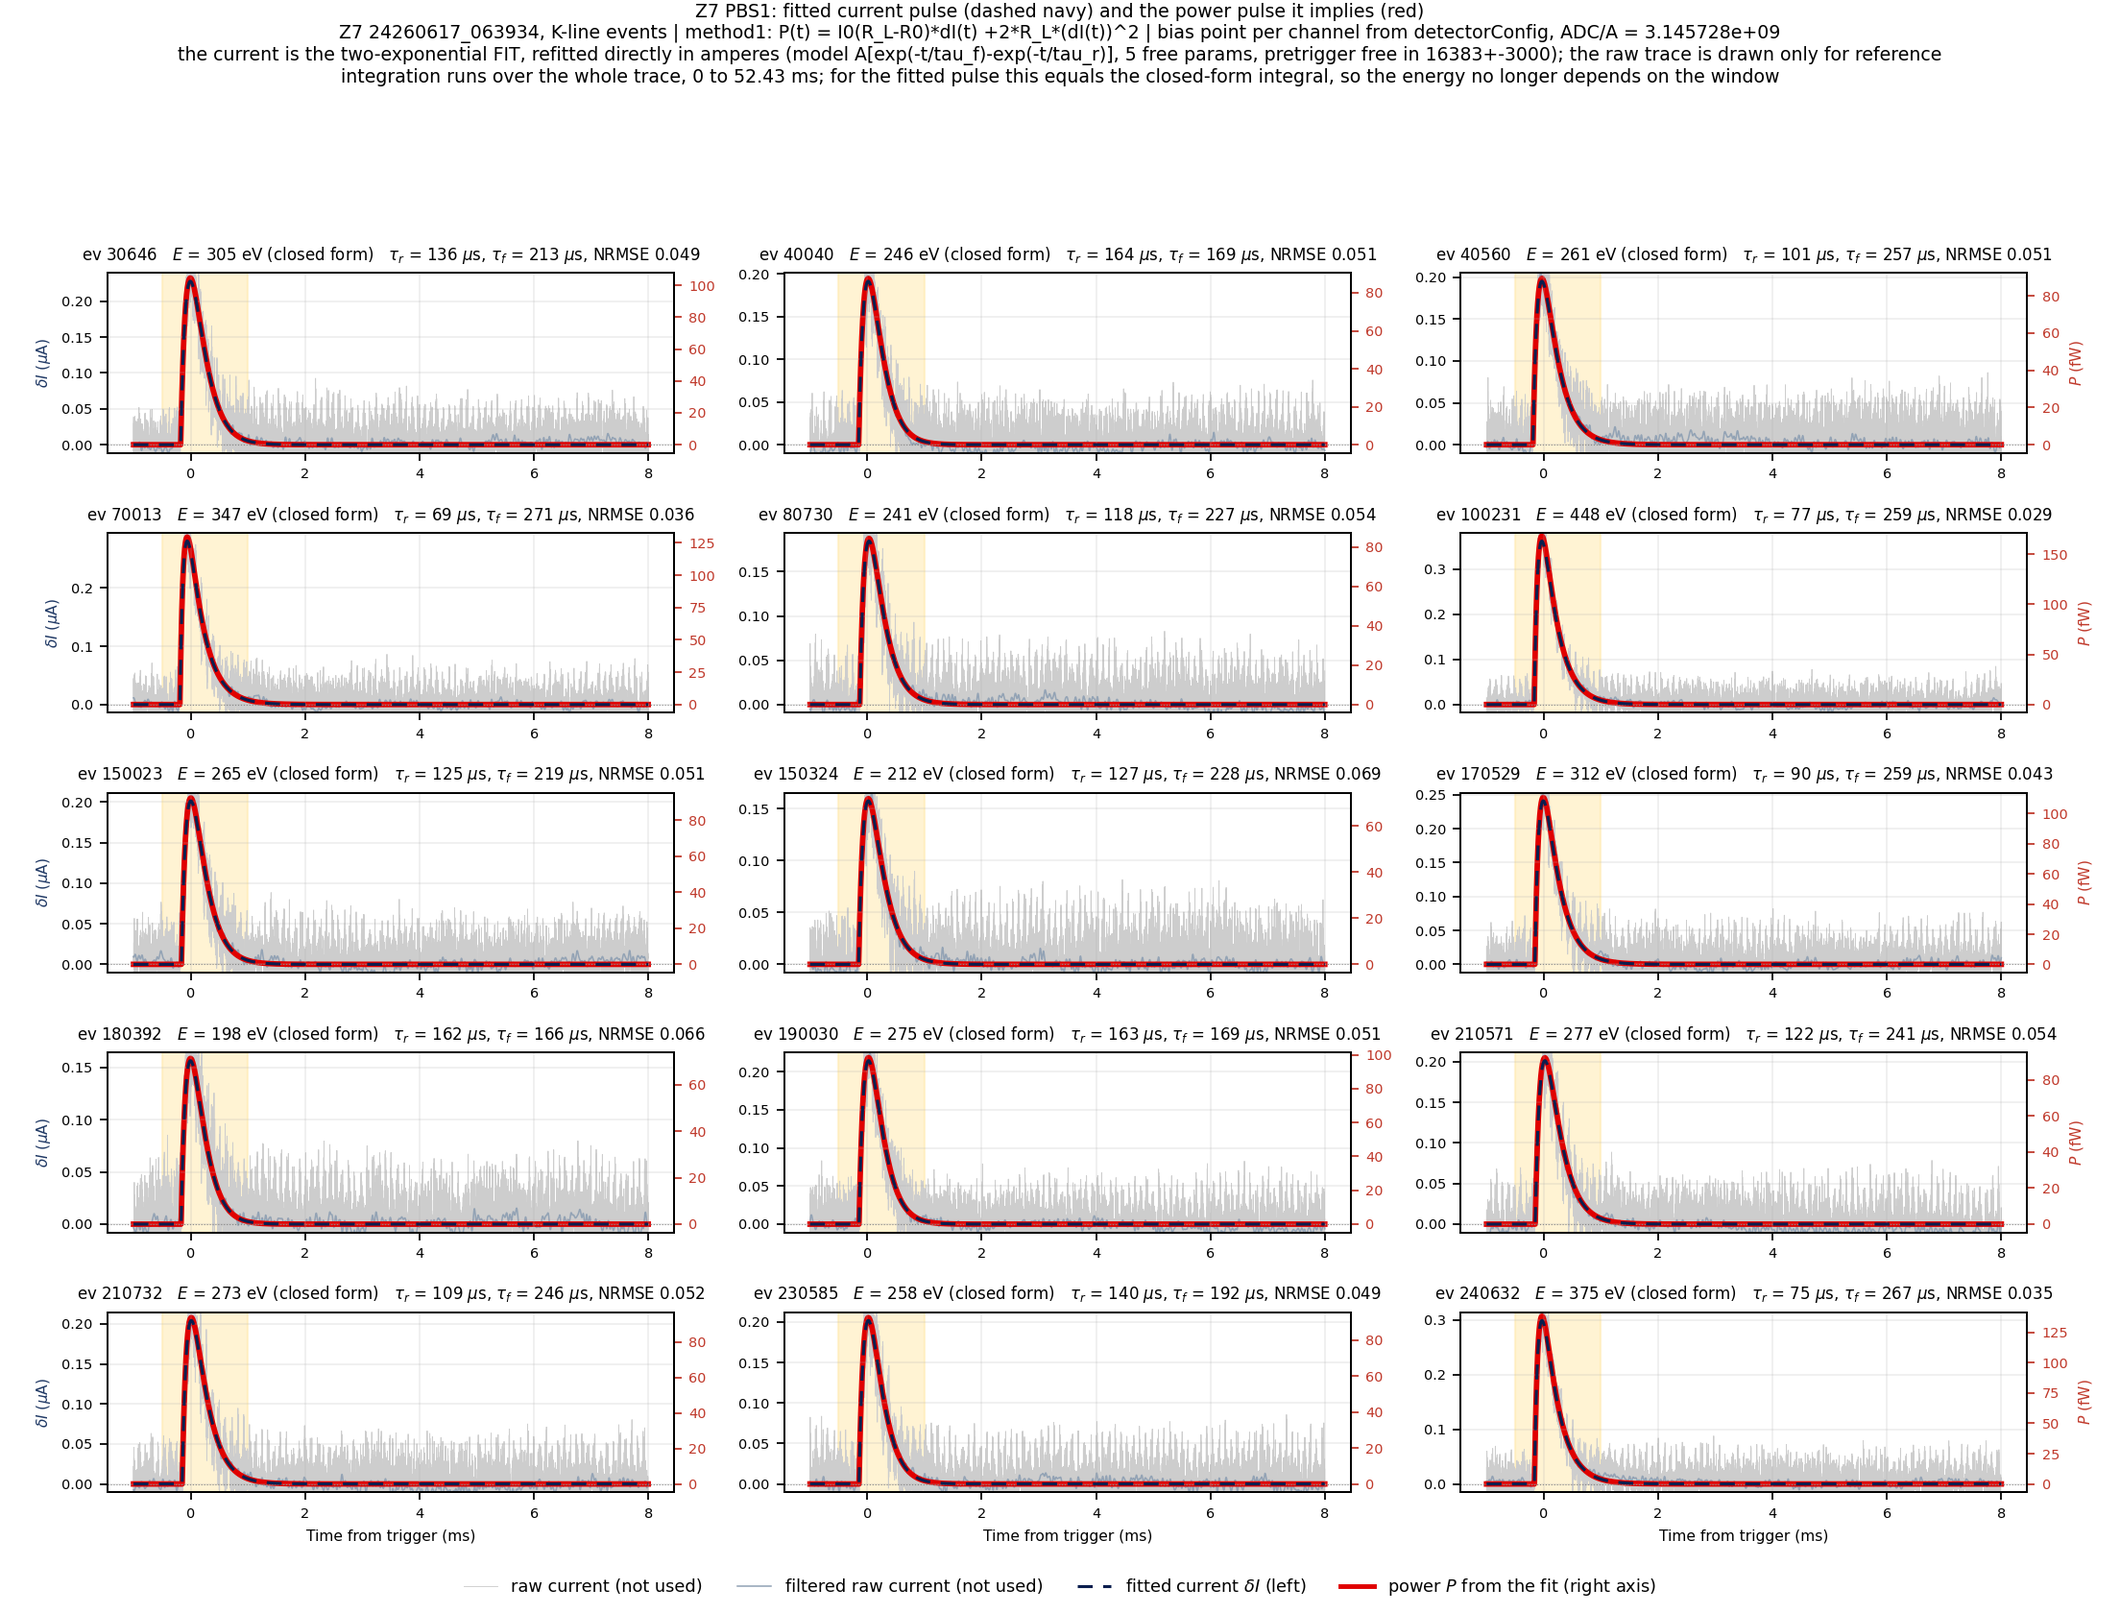
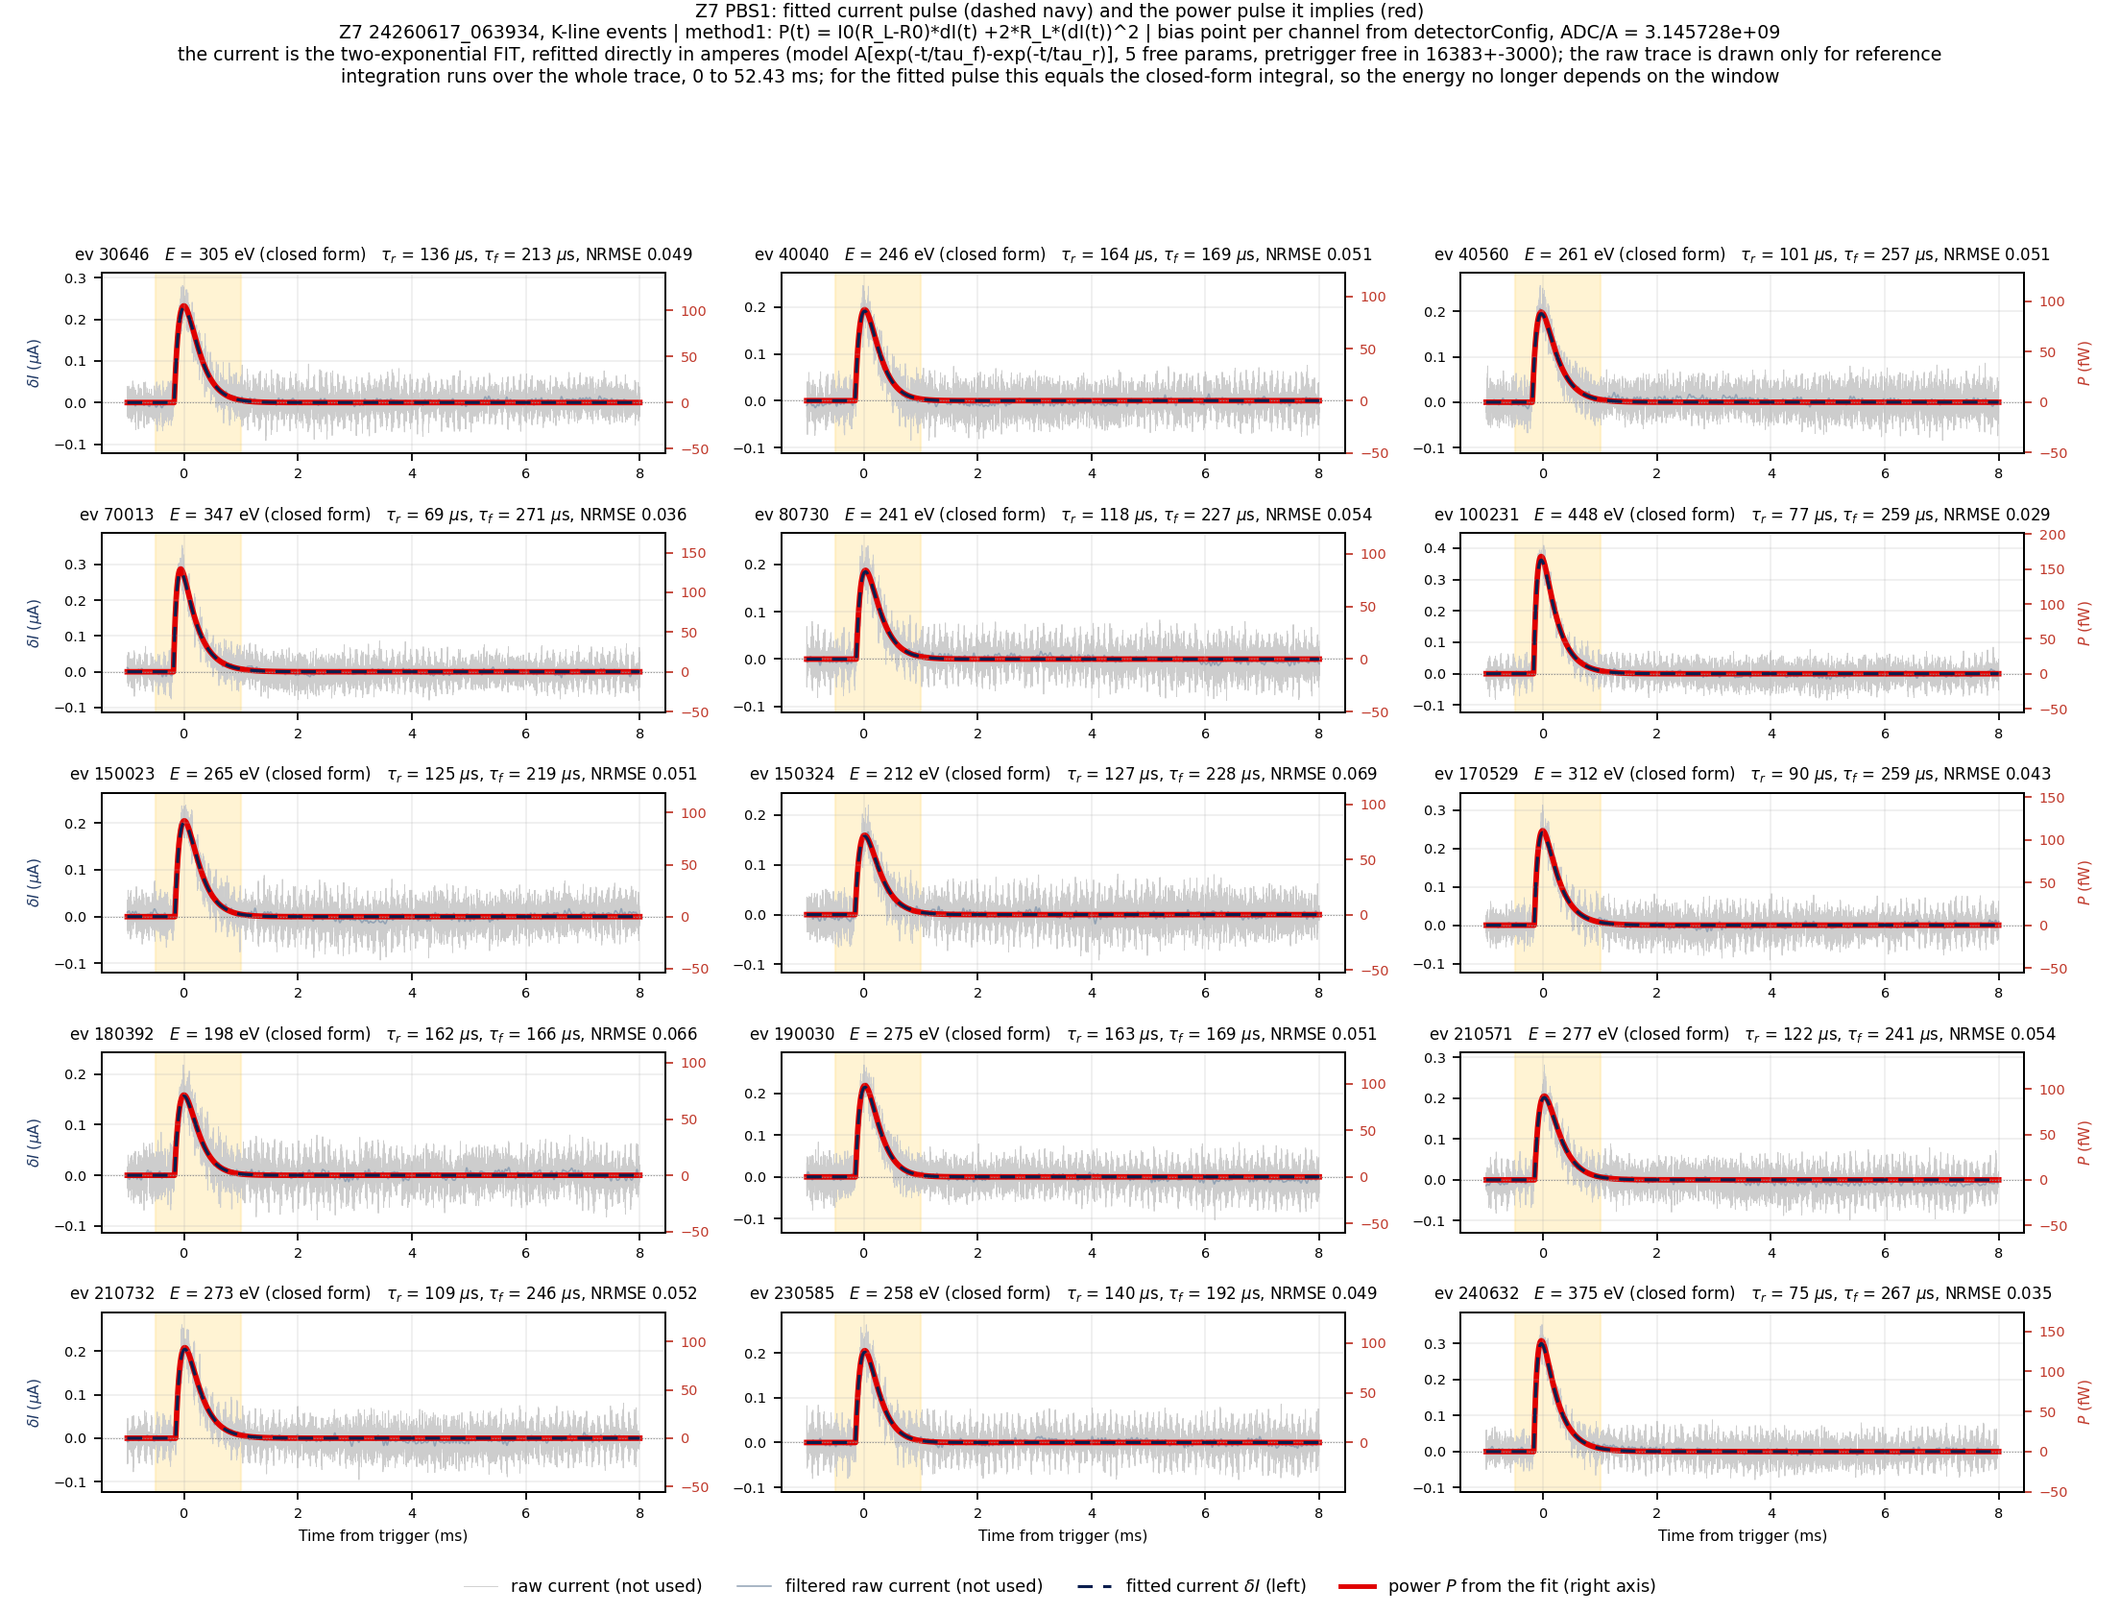
snolab: one pulse read three ways, and stop clipping the raw trace
New scripts/plot_peak_raw_vs_lowpass.py: a single event and channel zoomed on the
peak, with the raw samples, both low-pass traces and the fit on one set of axes
carrying ADC on the left, current in microamperes on the right and absorbed power
on a second right axis. The power axis uses the exact transform inverted through
the quadratic formula rather than a rescaled current axis, so its ticks are
genuinely uneven and the 2% nonlinearity is visible.

It shows why the pulse height has to come from the fit. For Z7 PBS1 event 30646
the four candidates are raw max 885.3 ADC, 100 kHz 785.9, 20 kHz 736.8 and the
fit 717.0, i.e. the raw maximum is 168 ADC (23%, 1.88 sigma) high. That is what
taking a maximum over the 98 samples on the flat top is expected to do: the
expectation is about 3 sigma, so this event is if anything a mild case.

Also fixes the current/power overlays, where the y range was autoscaled on the
fitted pulse alone. The raw trace lives on the twin axis whose limits are tied to
it, so raw noise below zero and above the peak was being clipped off the figure.
The range now comes from the raw trace, which is the widest curve.

diff --git a/snolab/differentialequations/scripts/plot_peak_raw_vs_lowpass.py b/snolab/differentialequations/scripts/plot_peak_raw_vs_lowpass.py
@@ -1,0 +1,239 @@
+#!/usr/bin/env python3
+"""One event, one channel, zoomed on the peak: raw samples, the low-pass traces
+and the fitted pulse, read simultaneously in ADC, current and power.
+
+The point of the figure is why the pulse height must come from the fit and not
+from the largest raw sample. Around the rounded top of the pulse many samples sit
+at nearly the same true height; taking the maximum picks whichever of them caught
+the largest upward noise excursion, so it is biased high. The fit uses every
+sample of the rise, the top and the decay, so the noise averages out.
+
+Everything is drawn against the baseline of the official Eabs definition (mean of
+bins 93..15758). Three axes carry the same curves: ADC on the left, current in
+microamperes on the right, and absorbed power in femtowatts on a second right
+axis. The power axis uses the exact transform
+
+    P = I0(R_L-R0)*dI + c2*R_L*dI^2        (method1, c2 = 2)
+
+inverted through the quadratic formula, so it is not a rescaled current axis: its
+ticks are genuinely non-uniform, which is the 2% nonlinearity made visible.
+
+Output: results/plots/current_power_overlay/zip{det}_{series}_peak_raw_vs_lp_{chan}_ev{N}.png
+
+Usage (inside the CDMS singularity image):
+    python3 scripts/plot_peak_raw_vs_lowpass.py --det 7 --chan PBS1 --event 30646
+"""
+import argparse
+import glob
+import os
+import pickle
+
+import numpy as np
+import uproot
+from scipy.signal import butter, filtfilt
+import matplotlib
+matplotlib.use("Agg")
+import matplotlib.pyplot as plt
+
+ADC_PER_AMP = 3.145728e9
+TRIGGER_BIN = 16383
+BASE_LO, BASE_HI = 93, 15758      # official baseline window
+DT = 1.6e-6
+N_BINS = 32768
+LP_FIT_KHZ = 100.0                # the filter the template pipeline fits through
+LP_OFF_KHZ = 20.0                 # the official Eabs prefilter, 5 poles
+TOP_FRAC = 0.90                   # "the top of the pulse" for the sample count
+
+RAW_CACHE = ("/projects/standard/yanliusp/shared/zhiheng/snolab"
+             "/raw_without_filter/run/cache")
+PROC_DIR = ("/projects/standard/yanliusp/shared/data/CDMS/SNOLAB/R4"
+            "/Processed/Default/Default_tag/Unmerged")
+HERE = os.path.dirname(os.path.dirname(os.path.abspath(__file__)))
+OUT_DIR = os.path.join(HERE, "results", "plots", "current_power_overlay")
+FIT_CACHE = os.path.join(HERE, "run", "fit_cache")
+
+ap = argparse.ArgumentParser()
+ap.add_argument("--det", type=int, default=7)
+ap.add_argument("--series", default="24260617_063934")
+ap.add_argument("--chan", default="PBS1")
+ap.add_argument("--event", type=int, default=30646)
+ap.add_argument("--lo-ms", type=float, default=-0.35, help="zoom start, ms from trigger")
+ap.add_argument("--hi-ms", type=float, default=0.95, help="zoom end, ms from trigger")
+ap.add_argument("--formula", default="method1",
+                choices=["method1", "method2", "exact"])
+args = ap.parse_args()
+det, series, chan, evn = args.det, args.series, args.chan, args.event
+C2 = {"method1": 2.0, "method2": -1.0, "exact": 1.0}[args.formula]
+
+# ------------------------------------------------------------------ the trace
+cache = pickle.load(open(os.path.join(RAW_CACHE, f"zip{det}_series",
+                                      f"{series}.pkl"), "rb"))
+idx = {int(e): i for i, e in enumerate(cache["event_numbers_ch"][chan])}
+trace = np.asarray(cache["raw_traces"][chan][idx[evn]], dtype=np.float64)
+assert trace.size == N_BINS, trace.size
+base = trace[BASE_LO:BASE_HI].mean()
+raw = trace - base
+sigma = float(trace[BASE_LO:BASE_HI].std())
+
+b100, a100 = butter(4, LP_FIT_KHZ * 1e3 / (0.5 / DT), btype="low")
+b20, a20 = butter(5, LP_OFF_KHZ * 1e3 / (0.5 / DT), btype="low")
+lp100 = filtfilt(b100, a100, raw)
+lp20 = filtfilt(b20, a20, raw)
+
+# ------------------------------------------------- bias point, current -> power
+cfgf = (sorted(glob.glob(os.path.join(PROC_DIR, f"{series}_Addison.root")))
+        + sorted(glob.glob(os.path.join(PROC_DIR,
+                                        f"UMN.Addison.*_{series}_F*.root"))))
+cfg = uproot.open(cfgf[0])[f"detectorConfigDir/detectorConfigZip{det}"]
+_c = lambda f: float(cfg[f"{chan}{f}"].array(library="np")[0])
+I0, R0, RL = _c("i0"), _c("r0"), _c("rp") + _c("rshunt")
+LIN, QUAD = I0 * (RL - R0), C2 * RL           # V and Ohm
+
+
+def power_fW(adc):
+    """ADC above baseline -> absorbed power in fW (exact, both terms)."""
+    di = np.asarray(adc) / ADC_PER_AMP
+    return (LIN * di + QUAD * di * di) * 1e15
+
+
+def fW_to_adc(p_fW):
+    """Inverse of power_fW: solve QUAD*dI^2 + LIN*dI - P = 0 for the branch that
+    passes through the origin."""
+    p = np.asarray(p_fW) * 1e-15
+    disc = np.maximum(LIN * LIN + 4.0 * QUAD * p, 0.0)
+    return (-LIN + np.sqrt(disc)) / (2.0 * QUAD) * ADC_PER_AMP
+
+
+# ------------------------------------------------------------------- the fit
+rec = pickle.load(open(os.path.join(FIT_CACHE, f"zip{det}",
+                                    f"{series}.pkl"), "rb"))["fits"][chan][evn]
+A, t_r, t_f, t0_ms = rec["amp"], rec["t_r"], rec["t_f"], rec["t0_ms"]
+x = np.arange(N_BINS, dtype=np.float64)
+t_ms = (x - TRIGGER_BIN) * DT * 1e3
+dt_s = np.clip(t_ms - t0_ms, 0.0, None) * 1e-3
+fit_adc = np.where(t_ms <= t0_ms, 0.0,
+                   A * (np.exp(-dt_s / t_f) - np.exp(-dt_s / t_r))) * ADC_PER_AMP
+
+i1 = A * (t_f - t_r)
+i2 = A * A * (t_f / 2 + t_r / 2 - 2 * t_f * t_r / (t_f + t_r))
+E_EV = (LIN * i1 + QUAD * i2) / 1.602176634e-19
+
+lo = TRIGGER_BIN + int(round(args.lo_ms * 1e-3 / DT))
+hi = TRIGGER_BIN + int(round(args.hi_ms * 1e-3 / DT))
+sl = slice(lo, hi)
+tt = t_ms[sl]
+
+pk_fit = float(fit_adc.max())
+i_raw = int(np.argmax(raw))
+pk_raw = float(raw[i_raw])
+pk_100 = float(lp100.max())
+pk_20 = float(lp20.max())
+n_top = int((fit_adc > TOP_FRAC * pk_fit).sum())
+top_lo = t_ms[np.argmax(fit_adc > TOP_FRAC * pk_fit)]
+top_hi = t_ms[N_BINS - 1 - np.argmax((fit_adc > TOP_FRAC * pk_fit)[::-1])]
+
+# ------------------------------------------------------------------- figure
+fig, ax = plt.subplots(figsize=(13.5, 7.2))
+
+# background: the baseline noise band, and the flat top of the pulse
+ax.axhspan(-sigma, sigma, color="#E8E8E8", zorder=0)
+ax.axvspan(top_lo, top_hi, color="#FFF3C4", zorder=0)
+ax.axhline(0, color="#777777", lw=0.8, zorder=1)
+ax.fill_between(tt, fit_adc[sl] - sigma, fit_adc[sl] + sigma, color="#C0392B",
+                alpha=0.13, lw=0, zorder=1)
+
+# the four curves, thin and visually distinct
+ax.plot(tt, raw[sl], ls="none", marker="o", ms=1.9, color="#7F8C8D",
+        alpha=0.85, zorder=2, label="raw samples, one per 1.6 $\\mu$s")
+ax.plot(tt, lp100[sl], lw=0.9, color="#1F77B4", zorder=3,
+        label=f"low pass {LP_FIT_KHZ:.0f} kHz (what the fit sees)")
+ax.plot(tt, lp20[sl], lw=1.1, color="#2E8B57", zorder=4,
+        label=f"low pass {LP_OFF_KHZ:.0f} kHz (official Eabs prefilter)")
+ax.plot(tt, fit_adc[sl], lw=1.7, color="#C0392B", zorder=5,
+        label="two-exponential fit")
+ax.plot([], [], color="#C0392B", alpha=0.25, lw=8,
+        label=f"fit $\\pm$ 1$\\sigma$ noise ($\\sigma$ = {sigma:.0f} ADC)")
+
+# the four candidate heights: faint guide lines, numbers collected in one box
+for y, c in [(pk_raw, "#7F8C8D"), (pk_100, "#1F77B4"),
+             (pk_20, "#2E8B57"), (pk_fit, "#C0392B")]:
+    ax.axhline(y, color=c, lw=0.8, ls=(0, (6, 5)), alpha=0.75, zorder=3)
+ax.plot([t_ms[i_raw]], [pk_raw], marker="v", ms=9, color="#34495E", zorder=7)
+
+rows = [("raw max", pk_raw, "#7F8C8D"),
+        (f"LP {LP_FIT_KHZ:.0f} kHz", pk_100, "#1F77B4"),
+        (f"LP {LP_OFF_KHZ:.0f} kHz", pk_20, "#2E8B57"),
+        ("fit peak", pk_fit, "#C0392B")]
+box_x, box_y, dy = 0.985, 0.975, 0.052
+ax.text(box_x, box_y, f"{'pulse height':<12}{'ADC':>8}{'uA':>10}{'fW':>9}"
+        f"{'vs fit':>9}", transform=ax.transAxes, ha="right", va="top",
+        family="monospace", fontsize=10, weight="bold", zorder=8, bbox=dict(facecolor="white", alpha=0.88, edgecolor="none", pad=1.5), )
+for k, (lab, y, c) in enumerate(rows):
+    ax.text(box_x, box_y - (k + 1) * dy,
+            f"{lab:<12}{y:8.1f}{y / ADC_PER_AMP * 1e6:10.4f}"
+            f"{float(power_fW(y)):9.1f}"
+            + (f"{(y - pk_fit) / sigma:+8.2f}$\\sigma$" if y != pk_fit else
+               f"{'-':>9}"),
+            transform=ax.transAxes, ha="right", va="top", color=c,
+            family="monospace", fontsize=10, zorder=8, bbox=dict(facecolor="white", alpha=0.88, edgecolor="none", pad=1.5), )
+ax.text(box_x, box_y - 5.2 * dy,
+        f"{'energy (closed form)':<20}{E_EV:8.1f} eV", transform=ax.transAxes,
+        ha="right", va="top", color="#C0392B", family="monospace", fontsize=10,
+        weight="bold", zorder=8, bbox=dict(facecolor="white", alpha=0.88, edgecolor="none", pad=1.5), )
+
+ax.annotate(f"largest single sample, {pk_raw - pk_fit:.0f} ADC "
+            f"({(pk_raw - pk_fit) / sigma:.2f}$\\sigma$) above the fit",
+            xy=(t_ms[i_raw], pk_raw), xytext=(0.015, 0.965),
+            textcoords="axes fraction", fontsize=10, color="#34495E",
+            arrowprops=dict(arrowstyle="->", color="#34495E", lw=1.0))
+ax.annotate(f"flat top:\n{n_top} samples within\n{100 * (1 - TOP_FRAC):.0f}% of the peak",
+            xy=(top_lo, 0.62 * pk_fit),
+            xytext=(0.015, 0.50), textcoords="axes fraction", fontsize=10,
+            color="#8A6D00",
+            arrowprops=dict(arrowstyle="->", color="#8A6D00", lw=1.0))
+
+ax.set_xlim(args.lo_ms, args.hi_ms)
+ax.set_ylim(-2.6 * sigma, 1.32 * pk_raw)
+ax.set_xlabel("Time from trigger (ms)", fontsize=12)
+ax.set_ylabel("pulse height above baseline (ADC)", fontsize=12)
+sec = ax.secondary_yaxis("right",
+                         functions=(lambda a: a / ADC_PER_AMP * 1e6,
+                                    lambda u: u * 1e-6 * ADC_PER_AMP))
+sec.set_ylabel("current $\\delta I$ ($\\mu$A)", fontsize=12, color="#1F3864")
+sec.tick_params(colors="#1F3864")
+pw = ax.secondary_yaxis(1.075, functions=(power_fW, fW_to_adc))
+pw.set_ylabel(f"absorbed power $P$ (fW), {args.formula}", fontsize=12,
+              color="#7B241C")
+pw.tick_params(colors="#7B241C")
+ax.grid(alpha=0.22)
+ax.legend(fontsize=9.5, loc="lower left", ncol=2, framealpha=0.93)
+ax.set_title(f"Z{det} {chan}, event {evn} ({series}): one pulse read three ways, "
+             f"as ADC, as current and as power", fontsize=12.5)
+ax.text(0.5, -0.105,
+        f"baseline = mean of bins {BASE_LO}-{BASE_HI} = {base:.1f} ADC, "
+        f"subtracted   |   1 ADC = {1e9 / ADC_PER_AMP:.4f} nA   |   "
+        f"power axis is exact, so its ticks are not evenly spaced\n"
+        f"$P = I_0(R_L-R_0)\\,\\delta I + c_2R_L\\,\\delta I^2$   "
+        f"({args.formula}, $c_2$={C2:.0f}):   "
+        f"$I_0$={I0 * 1e6:.3f} $\\mu$A,  $R_0$={R0 * 1e3:.3f} m$\\Omega$,  "
+        f"$R_L$={RL * 1e3:.3f} m$\\Omega$   "
+        f"$\\Rightarrow$  {LIN:.4e} V  and  {QUAD:.5f} $\\Omega$",
+        transform=ax.transAxes, ha="center", va="top", fontsize=9.5,
+        color="#444444")
+fig.tight_layout(rect=(0, 0.075, 1, 1))
+os.makedirs(OUT_DIR, exist_ok=True)
+fn = os.path.join(OUT_DIR,
+                  f"zip{det}_{series}_peak_raw_vs_lp_{chan}_ev{evn}.png")
+fig.savefig(fn, dpi=160)
+plt.close(fig)
+print("saved", fn)
+print(f"baseline {base:.2f} ADC, sigma {sigma:.2f} ADC")
+print(f"coefficients: linear {LIN:.6e} V, quadratic {QUAD:.6f} Ohm (c2={C2:.0f})")
+for lab, v in [("raw max", pk_raw), (f"{LP_FIT_KHZ:.0f} kHz max", pk_100),
+               (f"{LP_OFF_KHZ:.0f} kHz max", pk_20), ("fit peak", pk_fit)]:
+    print(f"  {lab:>14}: {v:8.2f} ADC = {v / ADC_PER_AMP * 1e6:.4f} uA = "
+          f"{float(power_fW(v)):7.2f} fW"
+          f"   ({v - pk_fit:+7.2f} ADC = {(v - pk_fit) / sigma:+.2f} sigma vs fit)")
+print(f"  closed-form energy from the fit: {E_EV:.2f} eV")
+print(f"  samples above {100 * TOP_FRAC:.0f}% of the peak: {n_top} "
+      f"({top_lo:.3f} .. {top_hi:.3f} ms)")

diff --git a/snolab/differentialequations/scripts/plot_fitted_current_power.py b/snolab/differentialequations/scripts/plot_fitted_current_power.py
@@ -227,6 +227,12 @@ def draw_pulse(ax, chan, f, e, label):
     ax.plot(t, e["fit"][lo:hi] * 1e6, lw=1.4, color="#0B1E4E", zorder=3,
             ls=(0, (5, 3.5)), label="fitted current $\\delta I$ (left)")
     ax.axhline(0, color="gray", lw=0.5, ls=":", zorder=0)
+    # the axis range has to come from the RAW trace, which is the widest curve
+    # here: autoscaling on the fitted pulse alone would clip the noise that goes
+    # below zero, and the raw sits on ax2 whose limits are tied to ax
+    span = np.concatenate([f["di"][lo:hi], e["fit"][lo:hi]]) * 1e6
+    pad = 0.08 * (span.max() - span.min())
+    ax.set_ylim(span.min() - pad, span.max() + pad)
     ax2.set_ylim(*(np.asarray(ax.get_ylim()) * 1e-6 * bias[chan]["lin"] * 1e15))
     ax.set_title(f"{label}   $E$ = {e['closed']:.0f} eV (closed form)   "
                  f"$\\tau_r$ = {f['t_rise'] * 1e6:.0f} $\\mu$s, "
